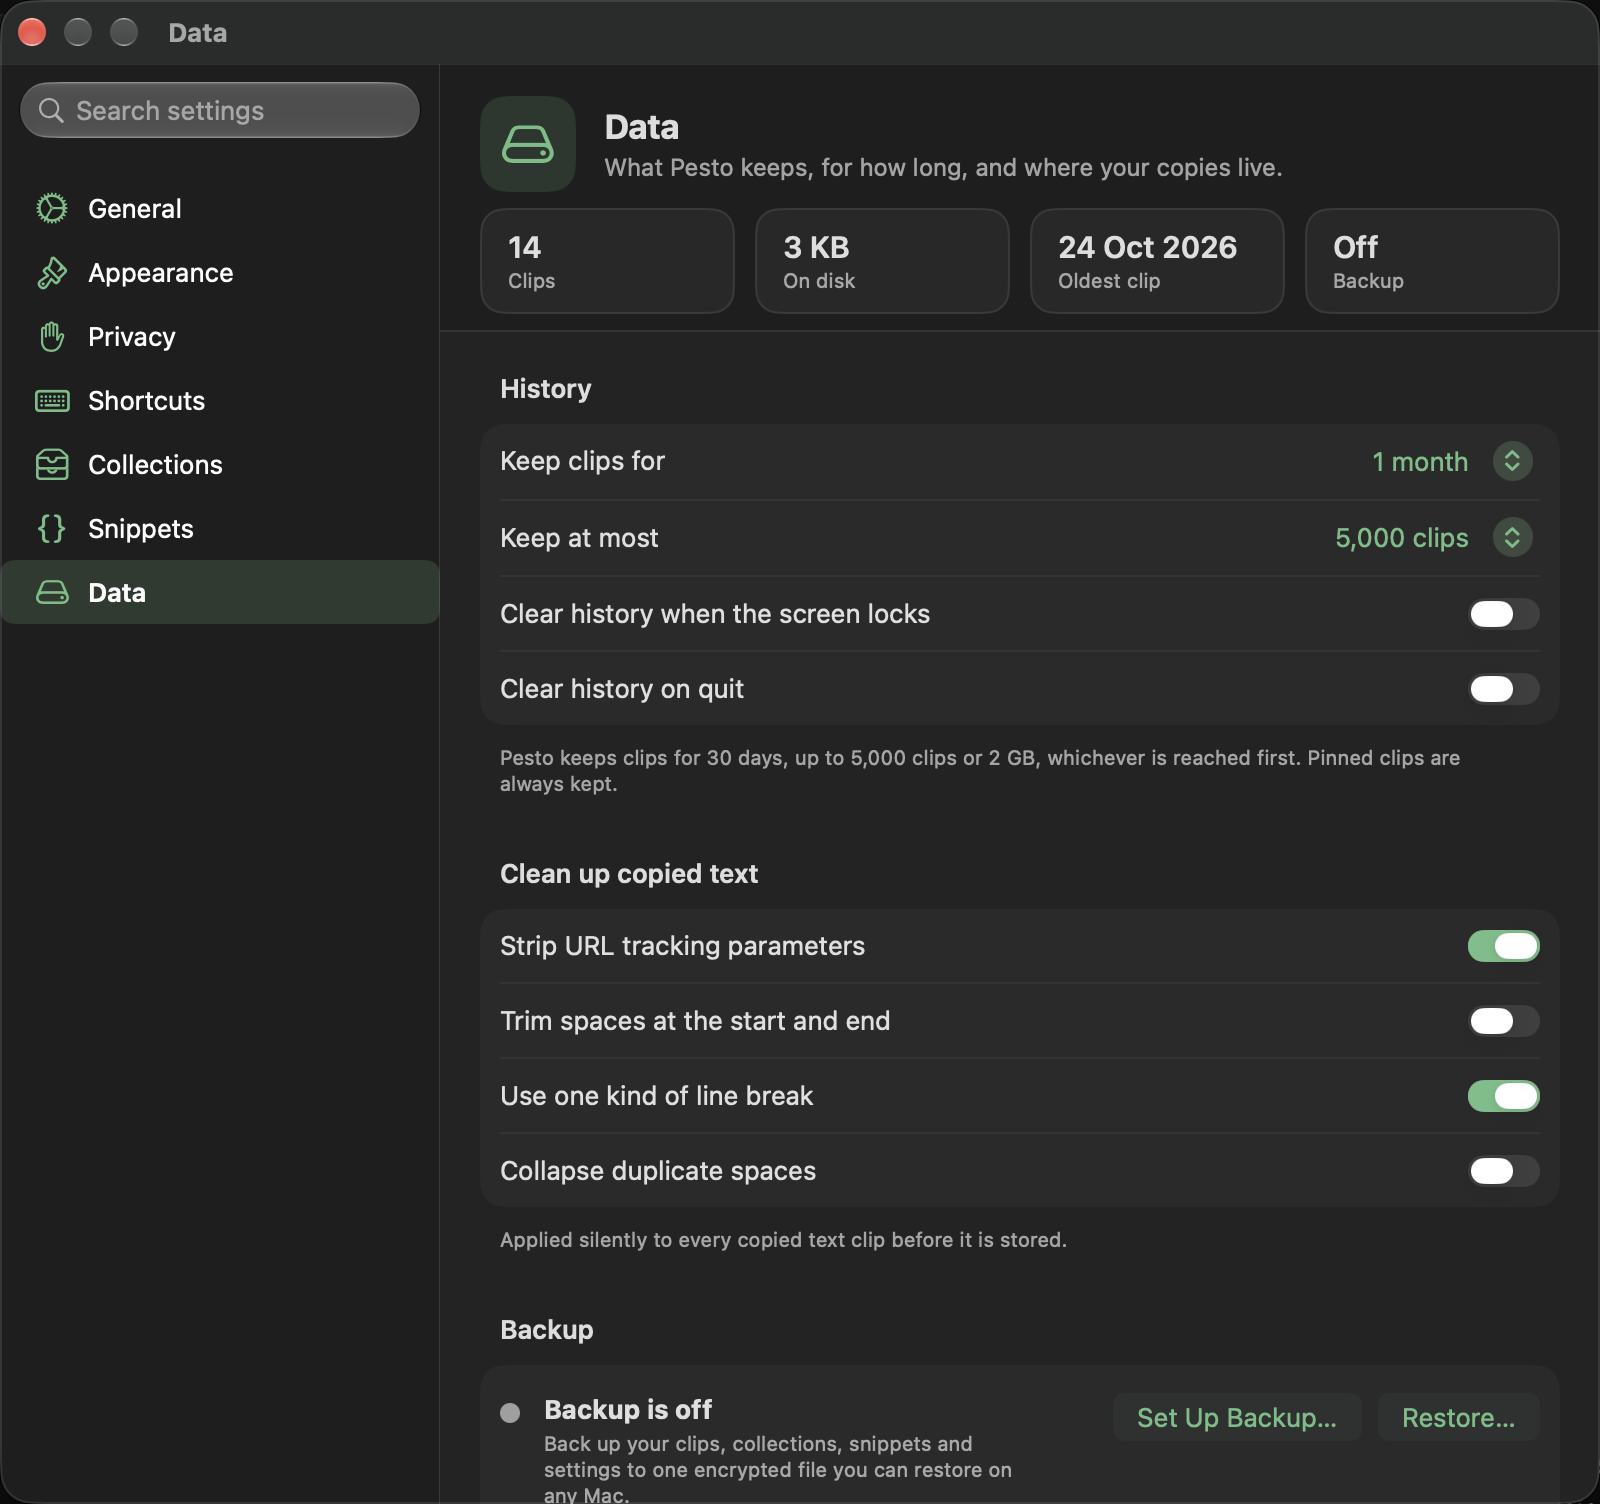
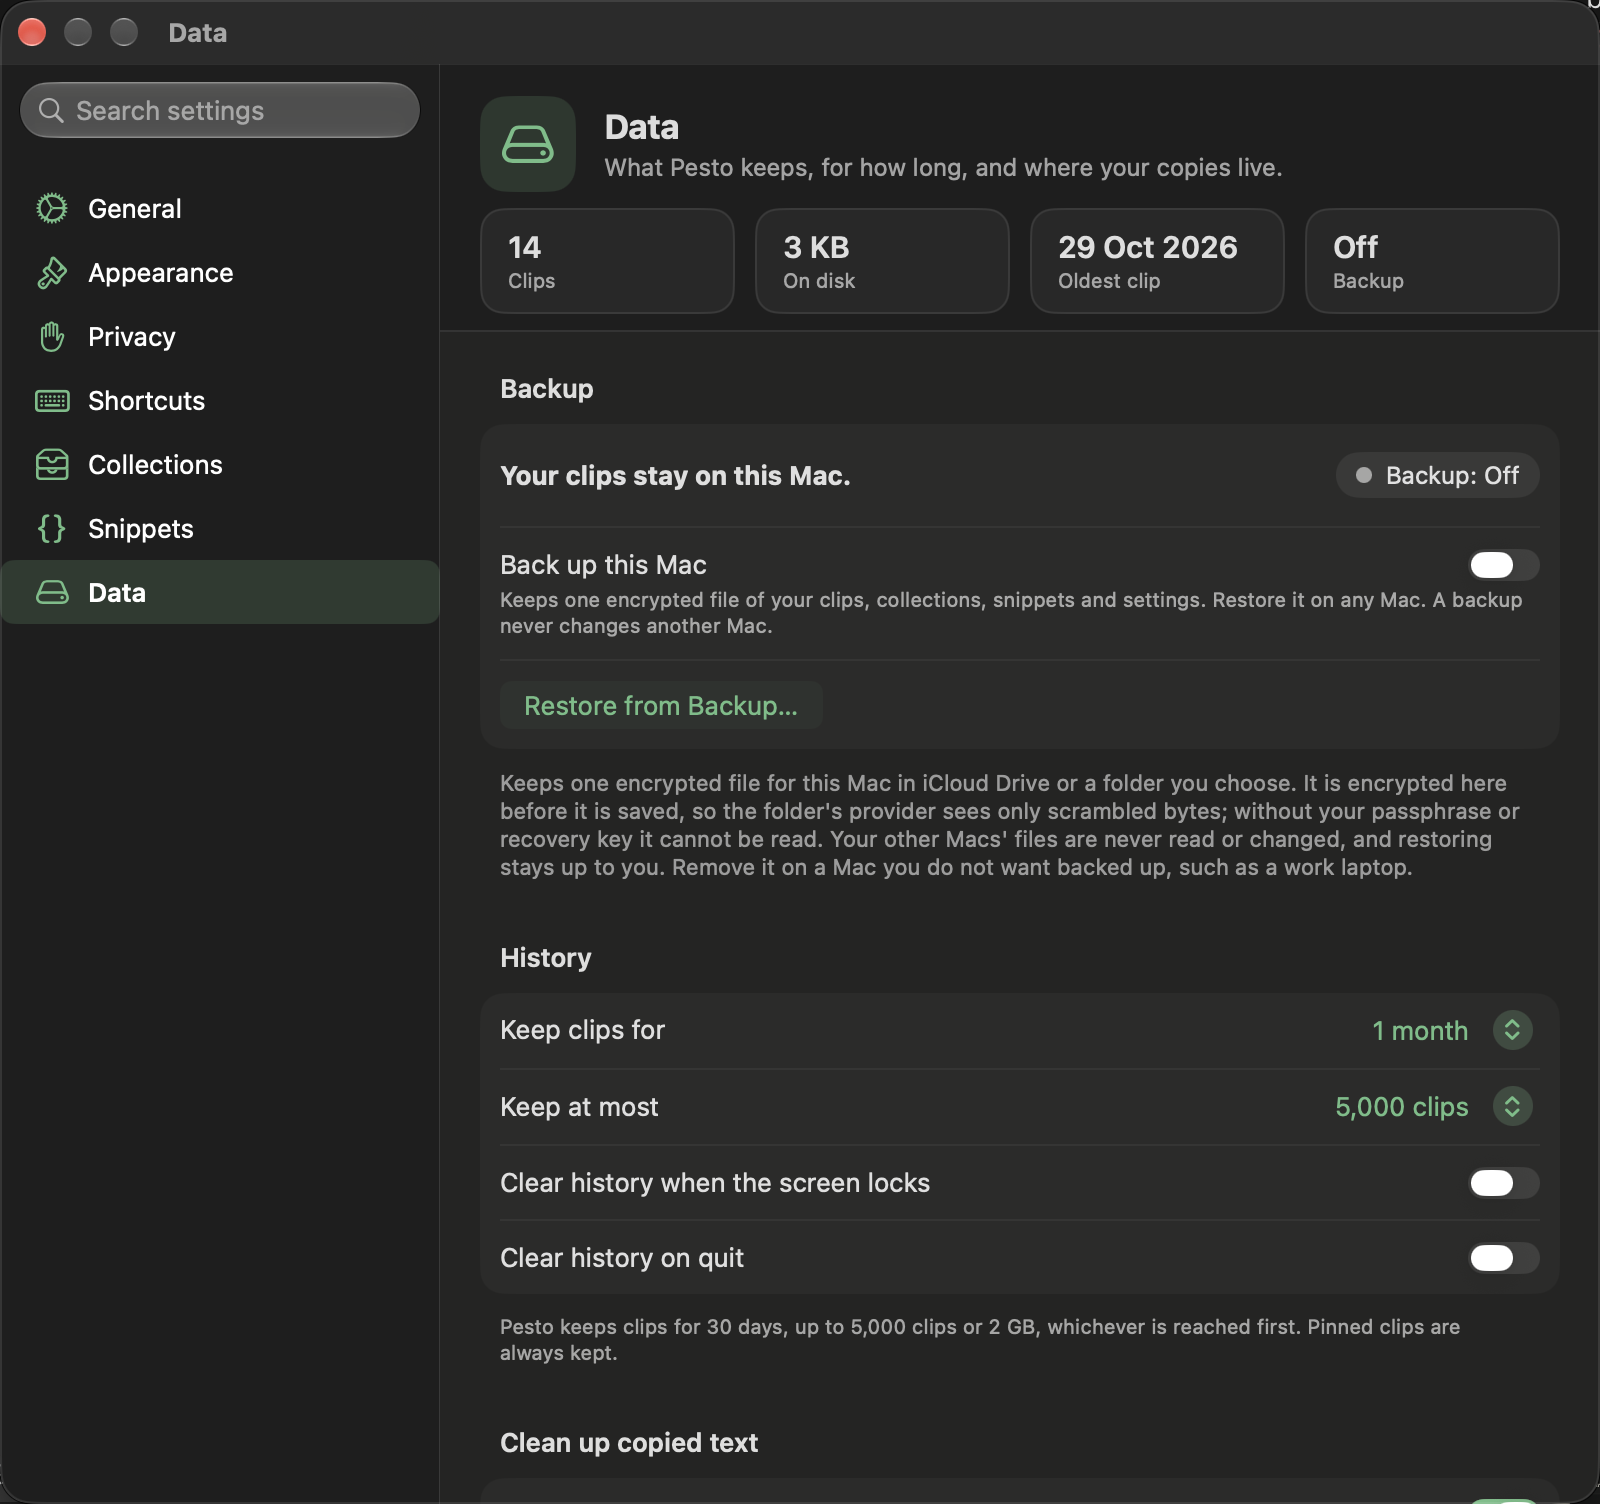
feat(settings): Backup first on the Data page, and a Change… for the folder
The Backup group opens the page, right under the tiles. Change… moves the file to another
folder through AutoBackupService.changeFolder, which keeps the old folder when the new one
is missing or holds another key's backup. Retakes settings-data.png.

diff --git a/Sources/Features/Settings/BackupSettings.swift b/Sources/Features/Settings/BackupSettings.swift
@@ -53,7 +53,7 @@ struct BackupSettings: View {
                     onBackUpNow: { Task { await backUpNow() } },
                     onResume: { confirmsReplacement = true }
                 )
-                if automatic, let nextText { Text(nextText).pestoCaption() }
+                if automatic, lastBackup != nil, let nextText { Text(nextText).pestoCaption() }
                 if !automatic { Text("Only when you choose Back Up Now.").pestoCaption() }
                 configured
             } else {
@@ -177,17 +177,21 @@ struct BackupSettings: View {
     private var configured: some View {
         if let folder = settings.folder {
             LabeledContent("Where your copies live") {
-                Text(folder.lastPathComponent).pestoQuiet()
-                Button("Show in Finder") { NSWorkspace.shared.activateFileViewerSelecting([folder]) }
-                Button("Change\u{2026}", action: changeFolder)
-                    .disabled(working)
-                    .accessibilityIdentifier(AccessibilityID.backupChangeFolderButton)
+                HStack {
+                    Text(folder.lastPathComponent).pestoQuiet().lineLimit(1).truncationMode(.middle)
+                    Button("Show in Finder") { NSWorkspace.shared.activateFileViewerSelecting([folder]) }
+                    Button("Change\u{2026}", action: changeFolder)
+                        .disabled(working)
+                        .accessibilityIdentifier(AccessibilityID.backupChangeFolderButton)
+                }
             }
         }
         if let protection = settings.protection {
             LabeledContent("Protected by") {
-                Text(protection == .recoveryKey ? "Recovery key" : "Passphrase").pestoQuiet()
-                recoveryKeyRow
+                HStack {
+                    Text(protection == .recoveryKey ? "Recovery key" : "Passphrase").pestoQuiet()
+                    recoveryKeyRow
+                }
             }
         } else {
             recoveryKeyRow

diff --git a/Tests/PestoUITests/BackupSettingsTests.swift b/Tests/PestoUITests/BackupSettingsTests.swift
@@ -93,4 +93,30 @@ final class BackupSettingsTests: PestoUITestCase {
         )
         capture("backup-sheet-passphrase", of: settingsWindow)
     }
+
+    /// A backup that is on, seeded into the throwaway preferences of the test run. The folder does not exist, so
+    /// nothing can ever be written, and the real iCloud Drive is never touched.
+    func test_aBackupThatIsOn_showsItsFolderItsProtectionAndWhatToDo() {
+        launch(defaults: [
+            "hasOnboarded": "true", "autoBackupEnabled": "true",
+            "autoBackupFolder": "/private/tmp/pesto-ui-test-no-such-folder",
+            "autoBackupProtection": "Recovery key only"
+        ])
+        send(.openSettings)
+        XCTAssertTrue(settingsWindow.waitForExistence(timeout: 10))
+        element(AccessibilityID.settingsSidebar("Data")).click()
+
+        XCTAssertTrue(
+            element(AccessibilityID.backupChangeFolderButton).waitForExistence(timeout: 5),
+            "no Change… button"
+        )
+        XCTAssertTrue(element(AccessibilityID.autoBackupNowButton).exists, "no Back Up Now button")
+        XCTAssertTrue(element(AccessibilityID.backupIncludesSecretsToggle).exists, "no secrets choice")
+        XCTAssertTrue(element(AccessibilityID.showRecoveryKeyButton).exists, "no Show Recovery Key button")
+        XCTAssertFalse(
+            element(AccessibilityID.backupStatus).label.contains("Backup: Off"),
+            "a backup that is on must not say it is off"
+        )
+        capture("settings-data-backup-on", of: settingsWindow)
+    }
 }

diff --git a/Sources/Features/Settings/SettingsPanes.swift b/Sources/Features/Settings/SettingsPanes.swift
@@ -75,9 +75,9 @@ struct DataPane: View {
 
     var body: some View {
         Form {
+            BackupSettings()
             GeneralSettings(part: .retention)
             CaptureSettings(part: .rules)
-            BackupSettings()
             FoundOnThisMacSection()
             DataSettings(part: .importExport)
             DataSettings(part: .maintenance)
